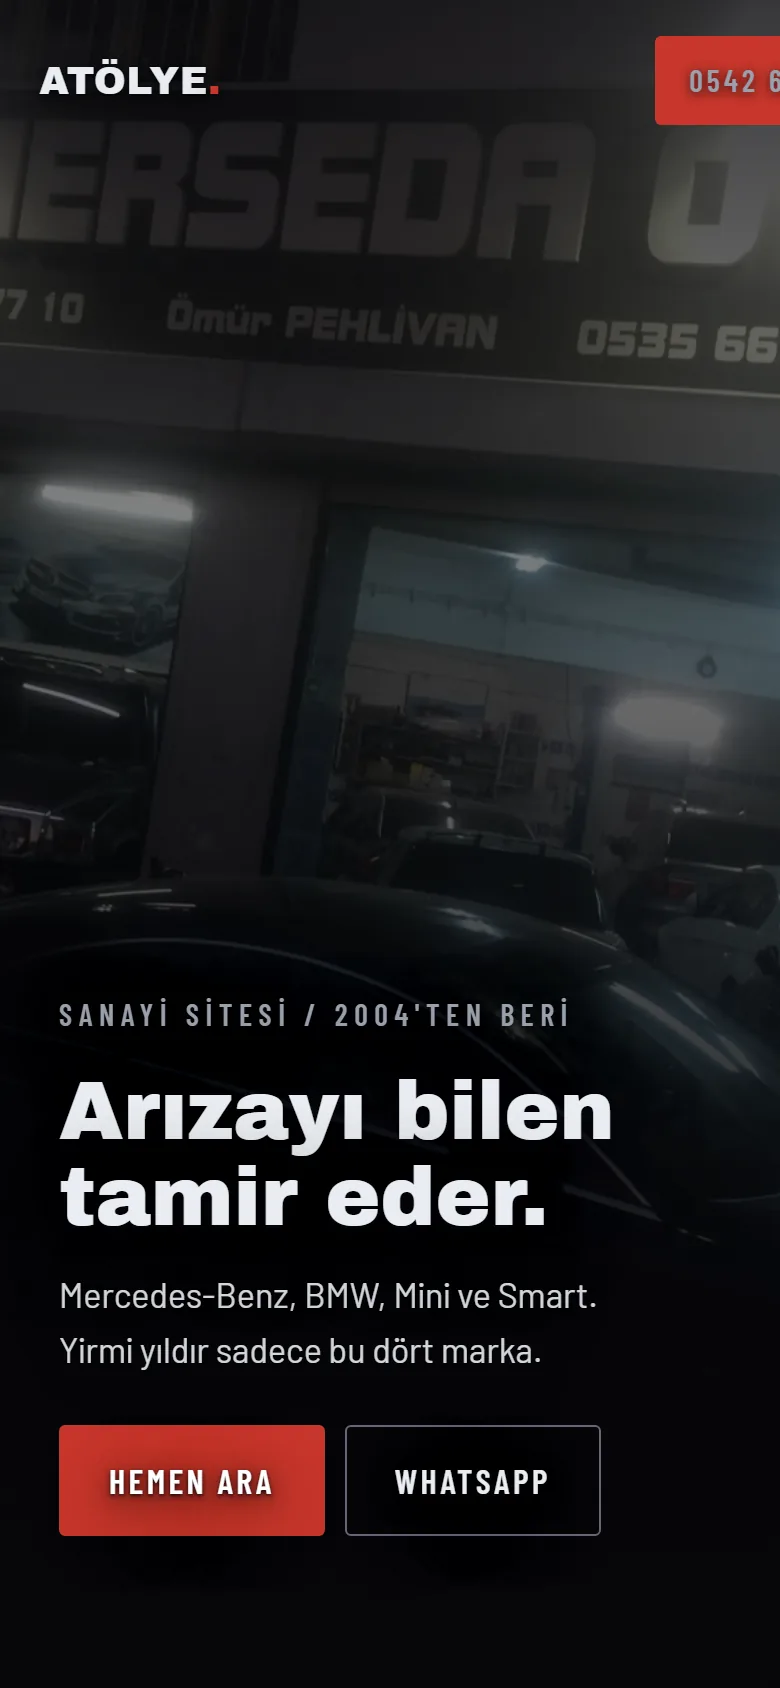
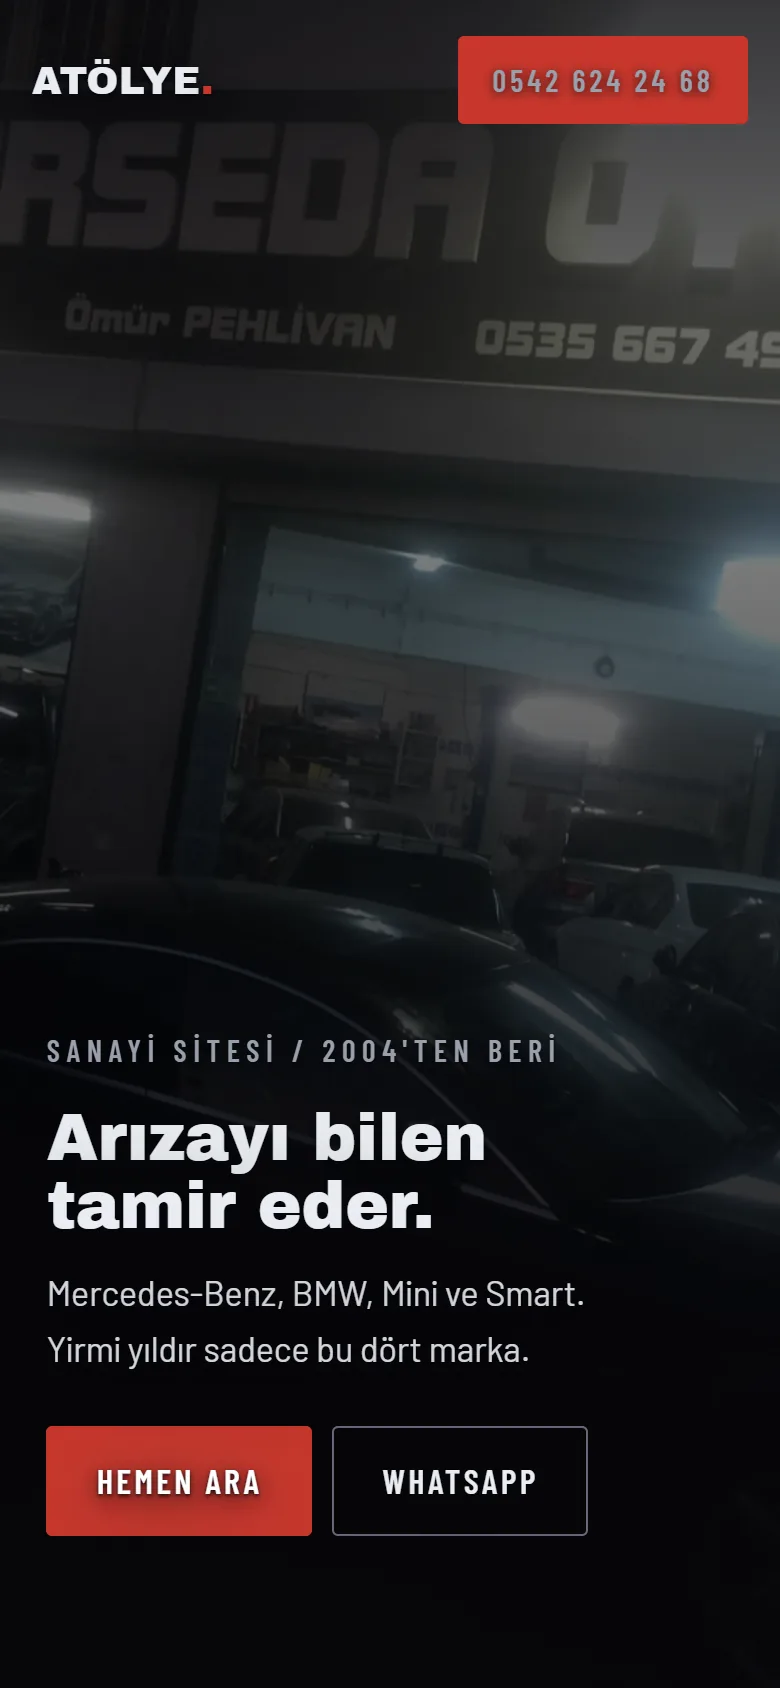
Recapture showcase screenshots without right-edge crop

diff --git a/index.html b/index.html
@@ -21,7 +21,7 @@
 <link rel="preconnect" href="https://fonts.googleapis.com">
 <link rel="preconnect" href="https://fonts.gstatic.com" crossorigin>
 <link href="https://fonts.googleapis.com/css2?family=Inter:wght@400;500;600;700;800&family=Instrument+Serif:ital@0;1&display=swap" rel="stylesheet">
-<link rel="stylesheet" href="styles.css?v=24">
+<link rel="stylesheet" href="styles.css?v=25">
 
 <script type="application/ld+json">
 {
@@ -615,6 +615,6 @@
   </div>
 </footer>
 
-<script src="app.js?v=24"></script>
+<script src="app.js?v=25"></script>
 </body>
 </html>

diff --git a/is/ardin.html b/is/ardin.html
@@ -16,7 +16,7 @@
 <link rel="preconnect" href="https://fonts.googleapis.com">
 <link rel="preconnect" href="https://fonts.gstatic.com" crossorigin>
 <link href="https://fonts.googleapis.com/css2?family=Inter:wght@400;500;600;700;800&family=Instrument+Serif:ital@0;1&display=swap" rel="stylesheet">
-<link rel="stylesheet" href="../styles.css?v=24">
+<link rel="stylesheet" href="../styles.css?v=25">
 </head>
 <body>
 
@@ -125,6 +125,6 @@
   </div>
 </footer>
 
-<script src="../app.js?v=24"></script>
+<script src="../app.js?v=25"></script>
 </body>
 </html>

diff --git a/is/atolye.html b/is/atolye.html
@@ -16,7 +16,7 @@
 <link rel="preconnect" href="https://fonts.googleapis.com">
 <link rel="preconnect" href="https://fonts.gstatic.com" crossorigin>
 <link href="https://fonts.googleapis.com/css2?family=Inter:wght@400;500;600;700;800&family=Instrument+Serif:ital@0;1&display=swap" rel="stylesheet">
-<link rel="stylesheet" href="../styles.css?v=24">
+<link rel="stylesheet" href="../styles.css?v=25">
 </head>
 <body>
 
@@ -125,6 +125,6 @@
   </div>
 </footer>
 
-<script src="../app.js?v=24"></script>
+<script src="../app.js?v=25"></script>
 </body>
 </html>

diff --git a/is/avlu.html b/is/avlu.html
@@ -16,7 +16,7 @@
 <link rel="preconnect" href="https://fonts.googleapis.com">
 <link rel="preconnect" href="https://fonts.gstatic.com" crossorigin>
 <link href="https://fonts.googleapis.com/css2?family=Inter:wght@400;500;600;700;800&family=Instrument+Serif:ital@0;1&display=swap" rel="stylesheet">
-<link rel="stylesheet" href="../styles.css?v=24">
+<link rel="stylesheet" href="../styles.css?v=25">
 </head>
 <body>
 
@@ -128,6 +128,6 @@
   </div>
 </footer>
 
-<script src="../app.js?v=24"></script>
+<script src="../app.js?v=25"></script>
 </body>
 </html>

diff --git a/is/kemer.html b/is/kemer.html
@@ -16,7 +16,7 @@
 <link rel="preconnect" href="https://fonts.googleapis.com">
 <link rel="preconnect" href="https://fonts.gstatic.com" crossorigin>
 <link href="https://fonts.googleapis.com/css2?family=Inter:wght@400;500;600;700;800&family=Instrument+Serif:ital@0;1&display=swap" rel="stylesheet">
-<link rel="stylesheet" href="../styles.css?v=24">
+<link rel="stylesheet" href="../styles.css?v=25">
 </head>
 <body>
 
@@ -125,6 +125,6 @@
   </div>
 </footer>
 
-<script src="../app.js?v=24"></script>
+<script src="../app.js?v=25"></script>
 </body>
 </html>

diff --git a/is/sakiz.html b/is/sakiz.html
@@ -16,7 +16,7 @@
 <link rel="preconnect" href="https://fonts.googleapis.com">
 <link rel="preconnect" href="https://fonts.gstatic.com" crossorigin>
 <link href="https://fonts.googleapis.com/css2?family=Inter:wght@400;500;600;700;800&family=Instrument+Serif:ital@0;1&display=swap" rel="stylesheet">
-<link rel="stylesheet" href="../styles.css?v=24">
+<link rel="stylesheet" href="../styles.css?v=25">
 </head>
 <body>
 
@@ -125,6 +125,6 @@
   </div>
 </footer>
 
-<script src="../app.js?v=24"></script>
+<script src="../app.js?v=25"></script>
 </body>
 </html>
